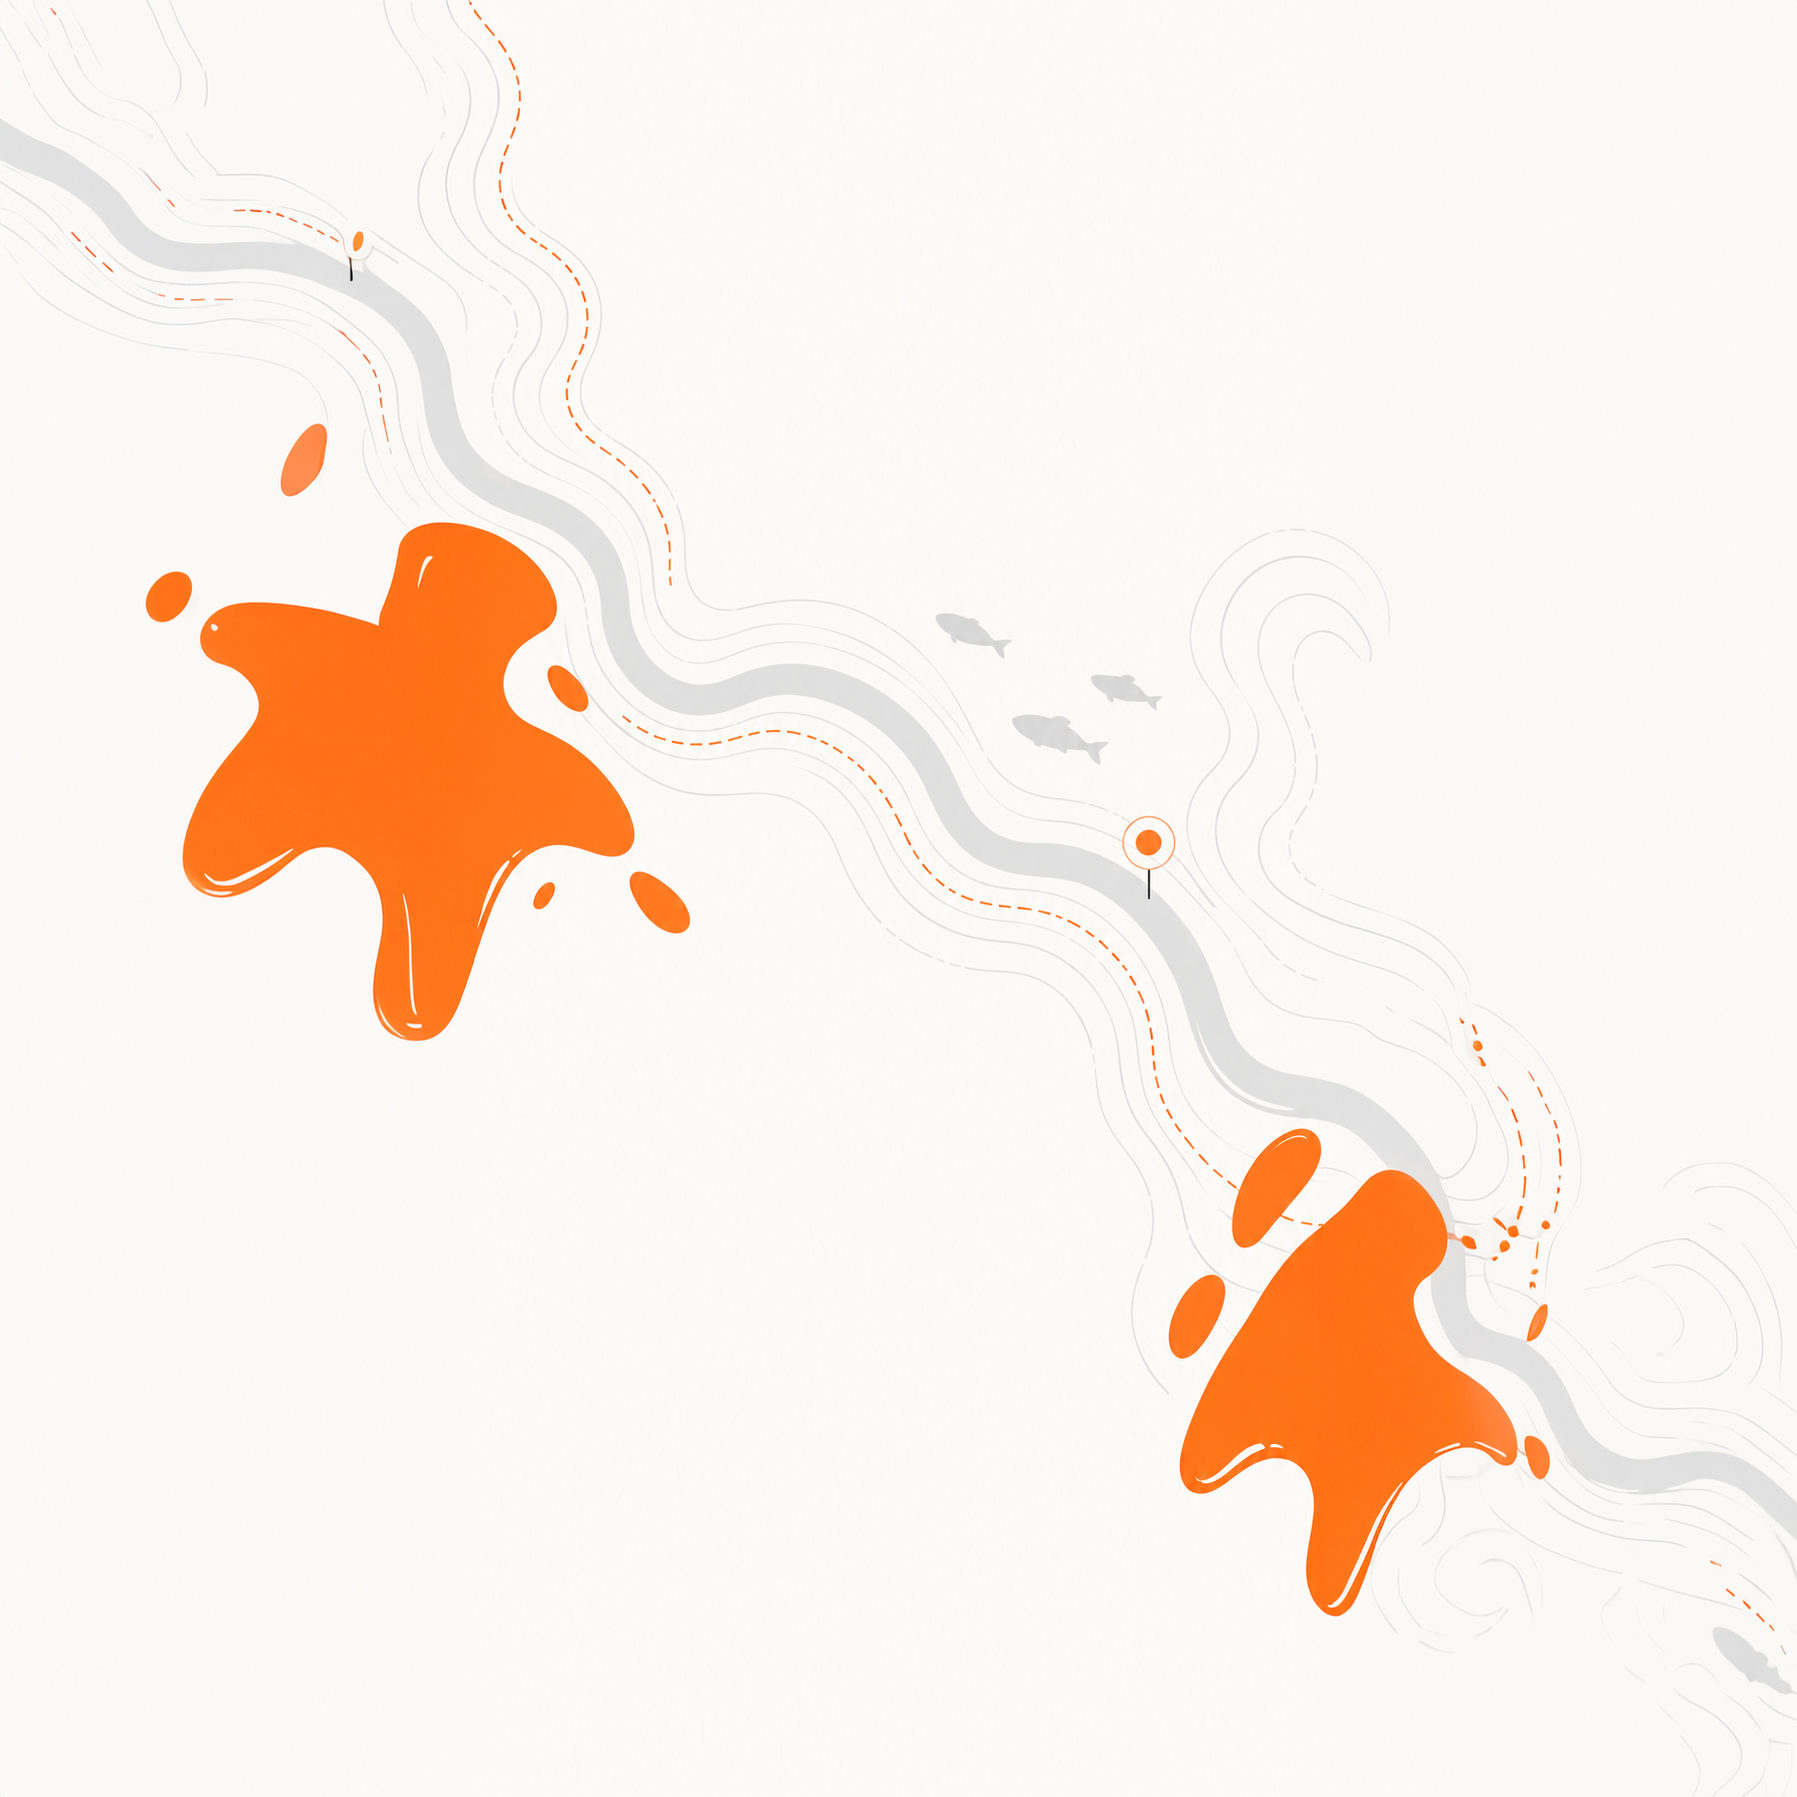
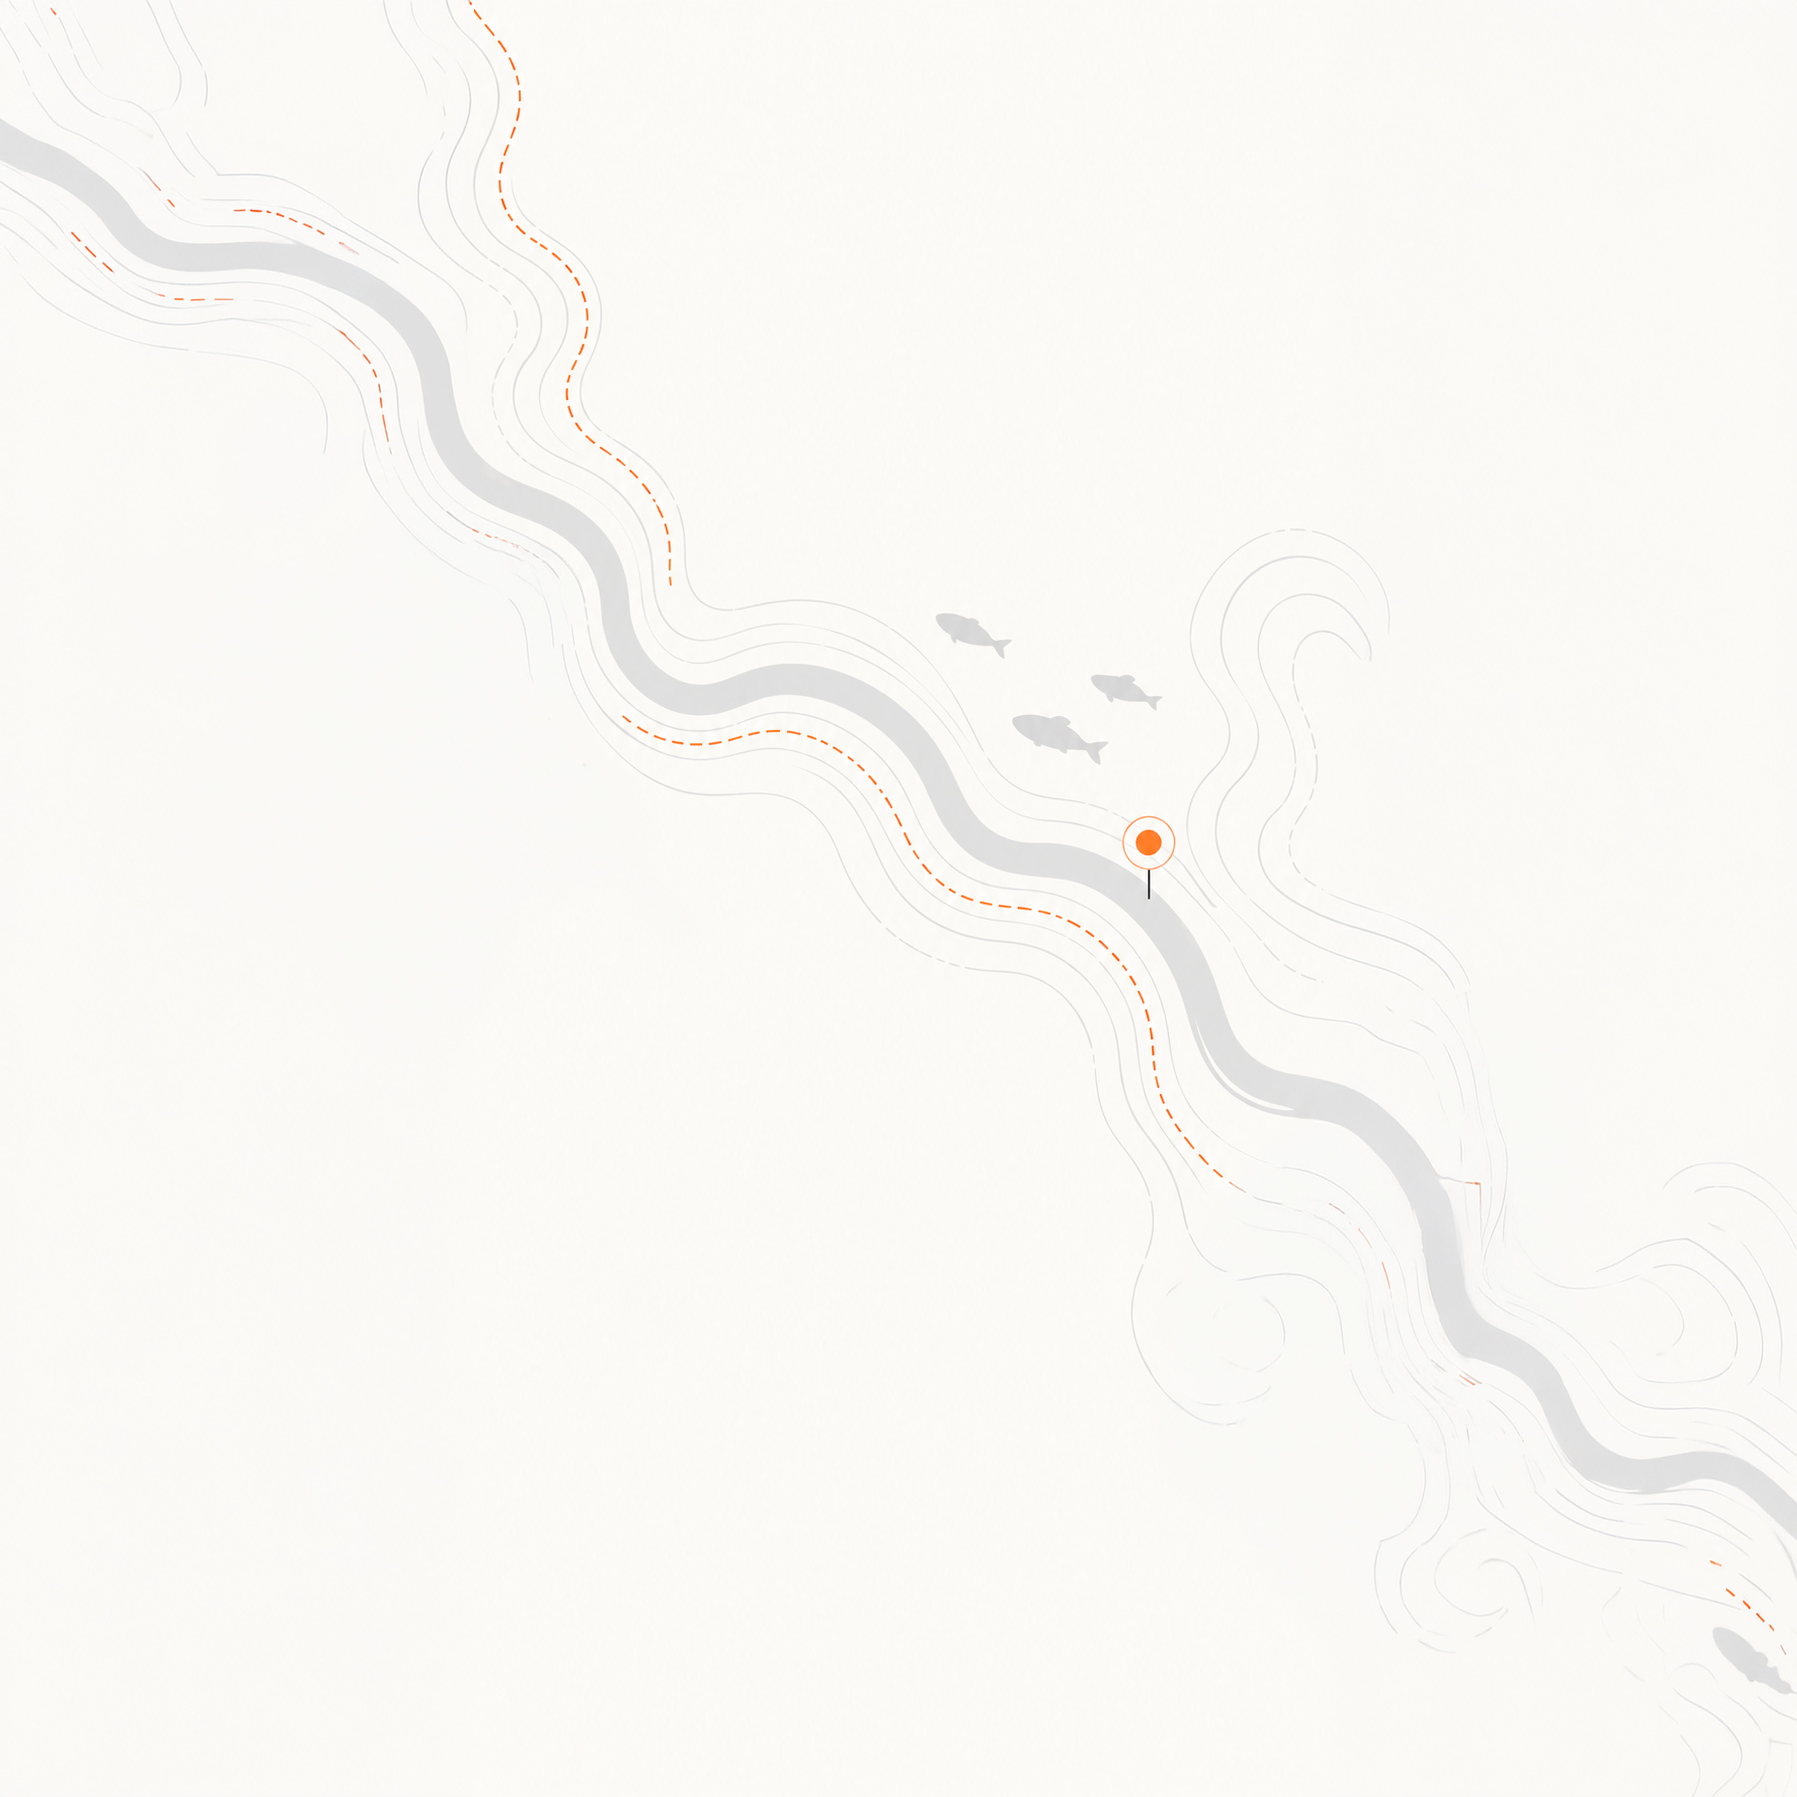
Split the corner splashes out of the background into positioned SVGs
The splashes baked into the background PNG scaled with it (auto 100%
height-driven) and drifted into the headline/subtitle/button on some
viewports. Swapped to the clean background (no splashes) plus the two
splash SVGs as their own elements, positioned to match where they sat
in the original composite — measured directly against it (left blob
centered ~41% down, right ~76% down) — and sized in dvh so they scale
with the background the same way it does.

diff --git a/web/app/globals.css b/web/app/globals.css
@@ -733,6 +733,13 @@ body{
   background:var(--bg) url('/brand/welcome-bg.png') top center / auto 100% no-repeat;
   padding:calc(16px + env(safe-area-inset-top)) 24px calc(16px + env(safe-area-inset-bottom));
 }
+/* Positioned to match where these shapes sat in the original composite
+   background (measured against it: left blob centered ~41% down, right
+   blob ~76% down) — sized relative to container height (dvh) since the
+   background image itself scales that way (background-size: auto 100%). */
+.onboarding-welcome-splash{position:absolute; z-index:0; pointer-events:none; height:auto; transform:translateY(-50%);}
+.onboarding-welcome-splash--left{left:0; top:41%; width:14.9dvh;}
+.onboarding-welcome-splash--right{right:0; top:76%; width:11.5dvh;}
 .onboarding-welcome-logo{
   flex:1 1 auto; min-height:0; display:flex; flex-direction:column; align-items:center; justify-content:flex-start;
 }

diff --git a/web/components/app-shell/onboarding/WelcomeStep.tsx b/web/components/app-shell/onboarding/WelcomeStep.tsx
@@ -3,6 +3,10 @@
 export function WelcomeStep({ onCapture, onSignIn }: { onCapture: () => void; onSignIn: () => void }) {
   return (
     <div className="onboarding-welcome">
+      {/* eslint-disable-next-line @next/next/no-img-element -- static brand asset */}
+      <img src="/brand/welcome-splash-left.svg" alt="" aria-hidden="true" className="onboarding-welcome-splash onboarding-welcome-splash--left" />
+      {/* eslint-disable-next-line @next/next/no-img-element -- static brand asset */}
+      <img src="/brand/welcome-splash-right.svg" alt="" aria-hidden="true" className="onboarding-welcome-splash onboarding-welcome-splash--right" />
       <div className="onboarding-welcome-logo">
         <div className="onboarding-welcome-mark-wrap">
           {/* eslint-disable-next-line @next/next/no-img-element -- static brand asset, next/image's optimizer is overkill here */}
